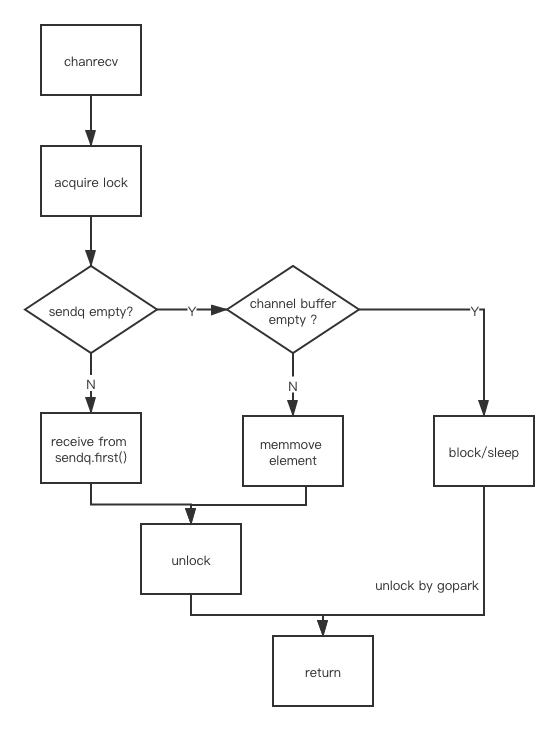
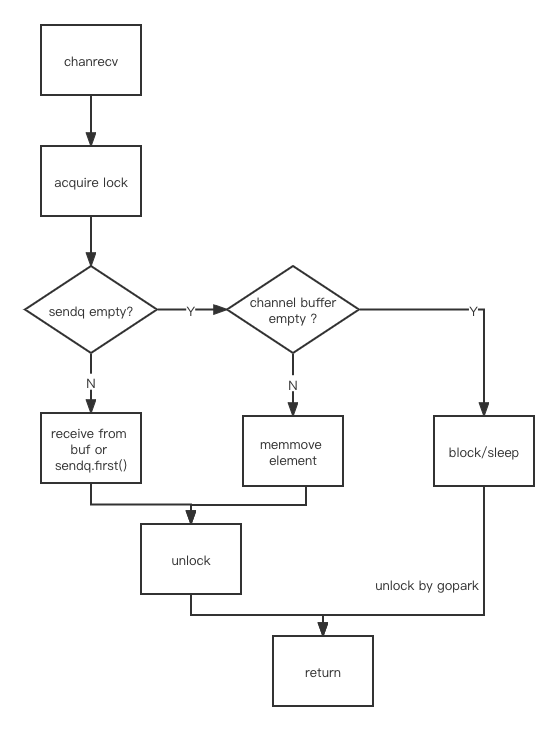
修正 chan 问题

diff --git a/objects/chan/chan_cn.md b/objects/chan/chan_cn.md
@@ -98,7 +98,9 @@ func chanrecv1(c *hchan, elem unsafe.Pointer) {
 
 `chanrecv` 的流程和 `chansend` 的流程类似
 
-首先, 锁住 `lock` 这把锁, 如果 `sendq` 不为空的话, 则尝试从里面弹出一个 goroutine 并获取该协程中存储的对应的元素, 如果 `sendq` 为空, 则尝试从环形队列中获取一个元素, 如果队列已经为空了, 则把当前协程加入`recvq` 并阻塞当前的 goroutine(有一个 block 参数判断需不需要阻塞, 当前值为 `true`)
+首先, 锁住  `lock`  这把锁, 如果  `sendq`  不为空的话, 并且  `buf`  也不为空, 则尝试从 `buf` 队列头部取出一个元素, 并从  `sendq`  中弹出一个协程, 协程中的数据拷贝到队尾, 如果  `buf`  为空, 则直接获取弹出协程中存储的对应的元素
+
+如果 `sendq` 为空, 则尝试从环形队列中获取一个元素, 如果队列已经为空了, 则把当前协程加入`recvq` 并阻塞当前的 goroutine(有一个 block 参数判断需不需要阻塞, 当前值为 `true`)
 
 ![chanrecv](./chanrecv.png)
 

diff --git a/objects/chan/chan.md b/objects/chan/chan.md
@@ -102,7 +102,9 @@ func chanrecv1(c *hchan, elem unsafe.Pointer) {
 
 The procedure of `chanrecv` is similar to the procedure of `chansend`
 
-First acquire the `lock`, try to pop an element and receive from a goroutine if there exist a goroutine in `sendq`, if `sendq` is empty, try to receive element from the circular queue, otherwise add the current goroutine to `recvq` and block the current running goroutine(a parameter `block` controls whether the current goroutine will be blocked, currently it's `true`)
+First acquire the `lock`, if there exist a goroutine in `sendq`, try to pop an element from `buf `  and push the element in a goroutine in `sendq` to the end of the queue if `buf ` is not empty, otherwise receive from `sendq` directly
+
+If `sendq` is empty, try to receive element from the circular queue, otherwise add the current goroutine to `recvq` and block the current running goroutine(a parameter `block` controls whether the current goroutine will be blocked, currently it's `true`)
 
 ![chanrecv](./chanrecv.png)
 

diff --git a/objects/slice/slice.md b/objects/slice/slice.md
@@ -123,5 +123,11 @@ If you call `append` and compile the file, you will find that it calls down to `
 a = append(a, 3)
 ```
 
-The grow pattern
+The grow pattern can be described as
+
+![./grow_pattern](./grow_pattern.png)
+
+When `cap` is less than 1024, `cap` is double each time, the grow speed is the yellow line
+
+When `cap` is greater than or equal 1024, `cap` grows `1/4` each time, the grow speed is the blue line
 
